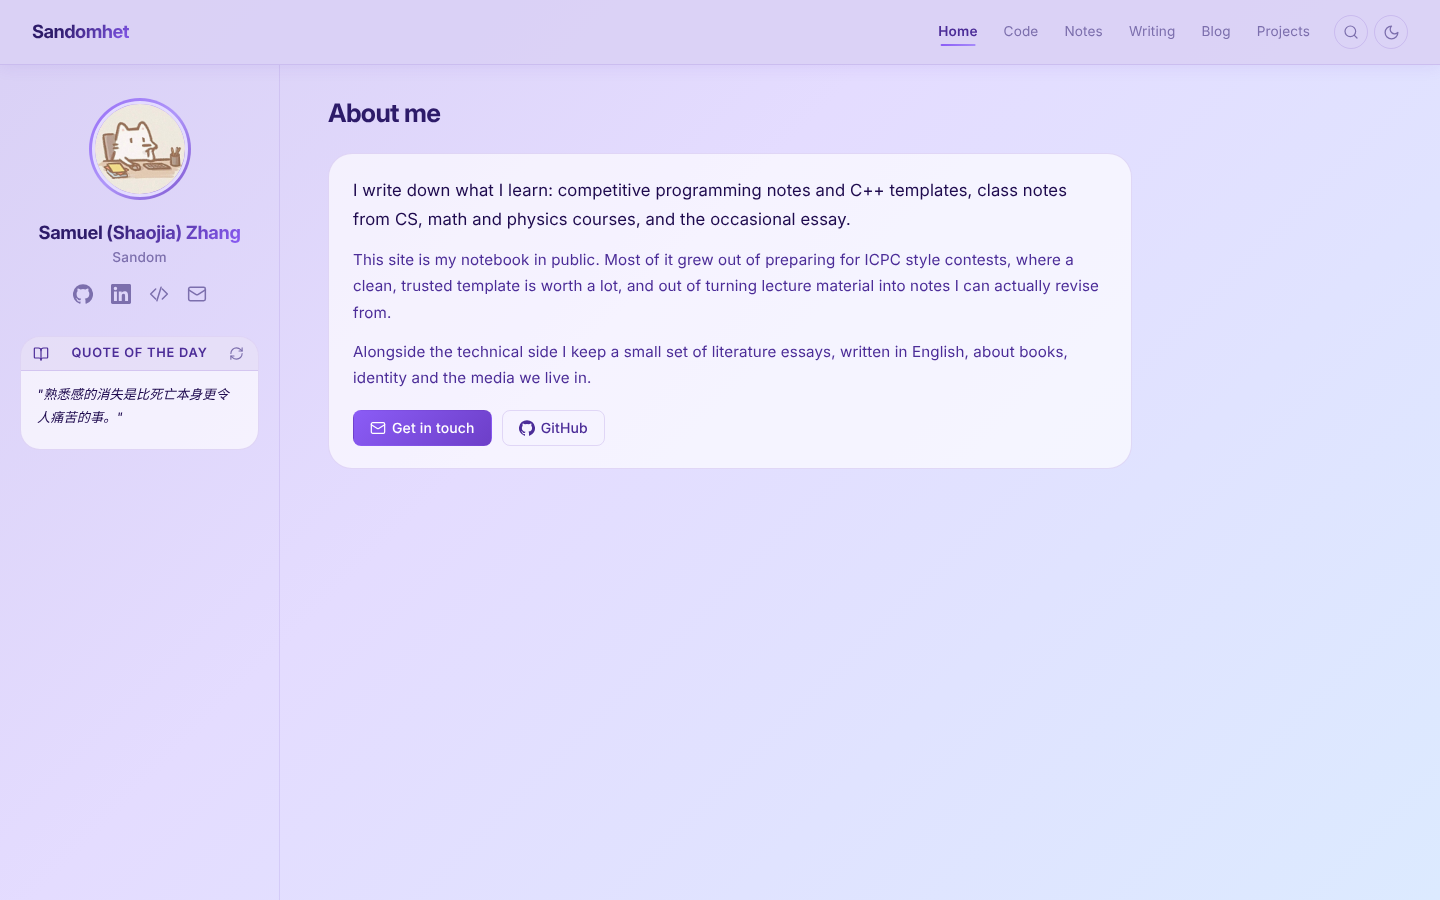
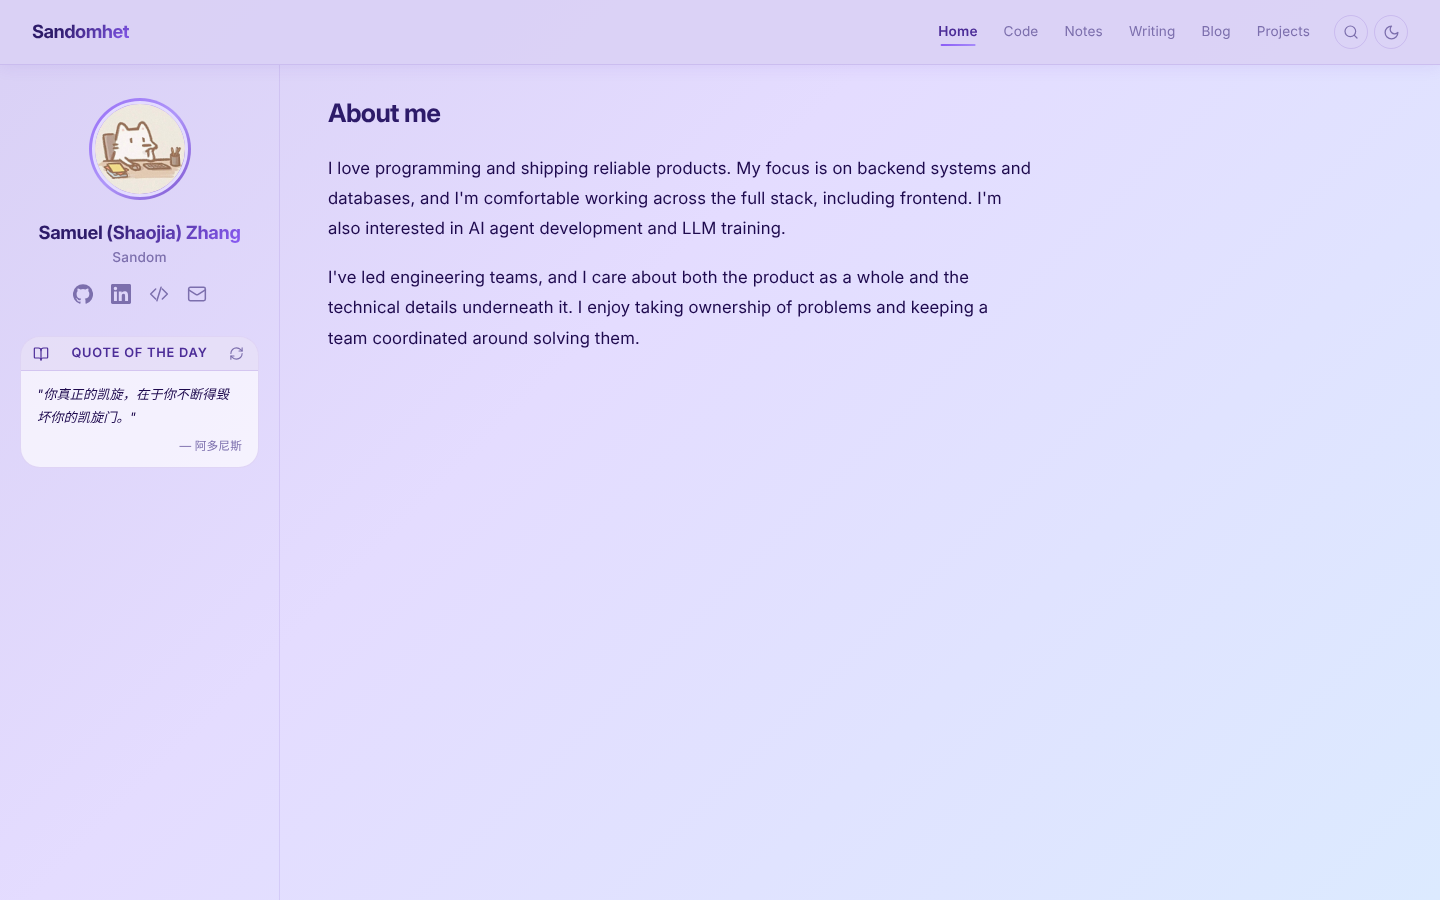
Use Samuel's own About me text and drop the duplicate links
The home page now shows the About me heading with the two paragraphs
Samuel wrote, as plain text. The frosted box and the Get in touch /
GitHub buttons are gone since the sidebar already has those links.

Changed region(s): [[0.2188, 0.1556, 0.75, 0.4978], [0.0, 0.4356, 0.1875, 0.5289], [0.375, 0.4667, 0.4062, 0.4978]]

diff --git a/src/data/site.ts b/src/data/site.ts
@@ -1,4 +1,4 @@
-// Everything personal lives here so the About page and footer stay easy to edit.
+// Everything personal lives here so the profile and About me text stay easy to edit.
 
 export const profile = {
   name: "Samuel (Shaojia) Zhang",
@@ -6,12 +6,9 @@ export const profile = {
   short: "Sandom",
   avatar: "/avatar.jpg",
   email: "sandomhet@gmail.com",
-  // TODO(Samuel): replace with your own words. Kept to facts the site itself shows.
-  intro:
-    "I write down what I learn: competitive programming notes and C++ templates, class notes from CS, math and physics courses, and the occasional essay.",
   about: [
-    "This site is my notebook in public. Most of it grew out of preparing for ICPC style contests, where a clean, trusted template is worth a lot, and out of turning lecture material into notes I can actually revise from.",
-    "Alongside the technical side I keep a small set of literature essays, written in English, about books, identity and the media we live in.",
+    "I love programming and shipping reliable products. My focus is on backend systems and databases, and I'm comfortable working across the full stack, including frontend. I'm also interested in AI agent development and LLM training.",
+    "I've led engineering teams, and I care about both the product as a whole and the technical details underneath it. I enjoy taking ownership of problems and keeping a team coordinated around solving them.",
   ],
 };
 
